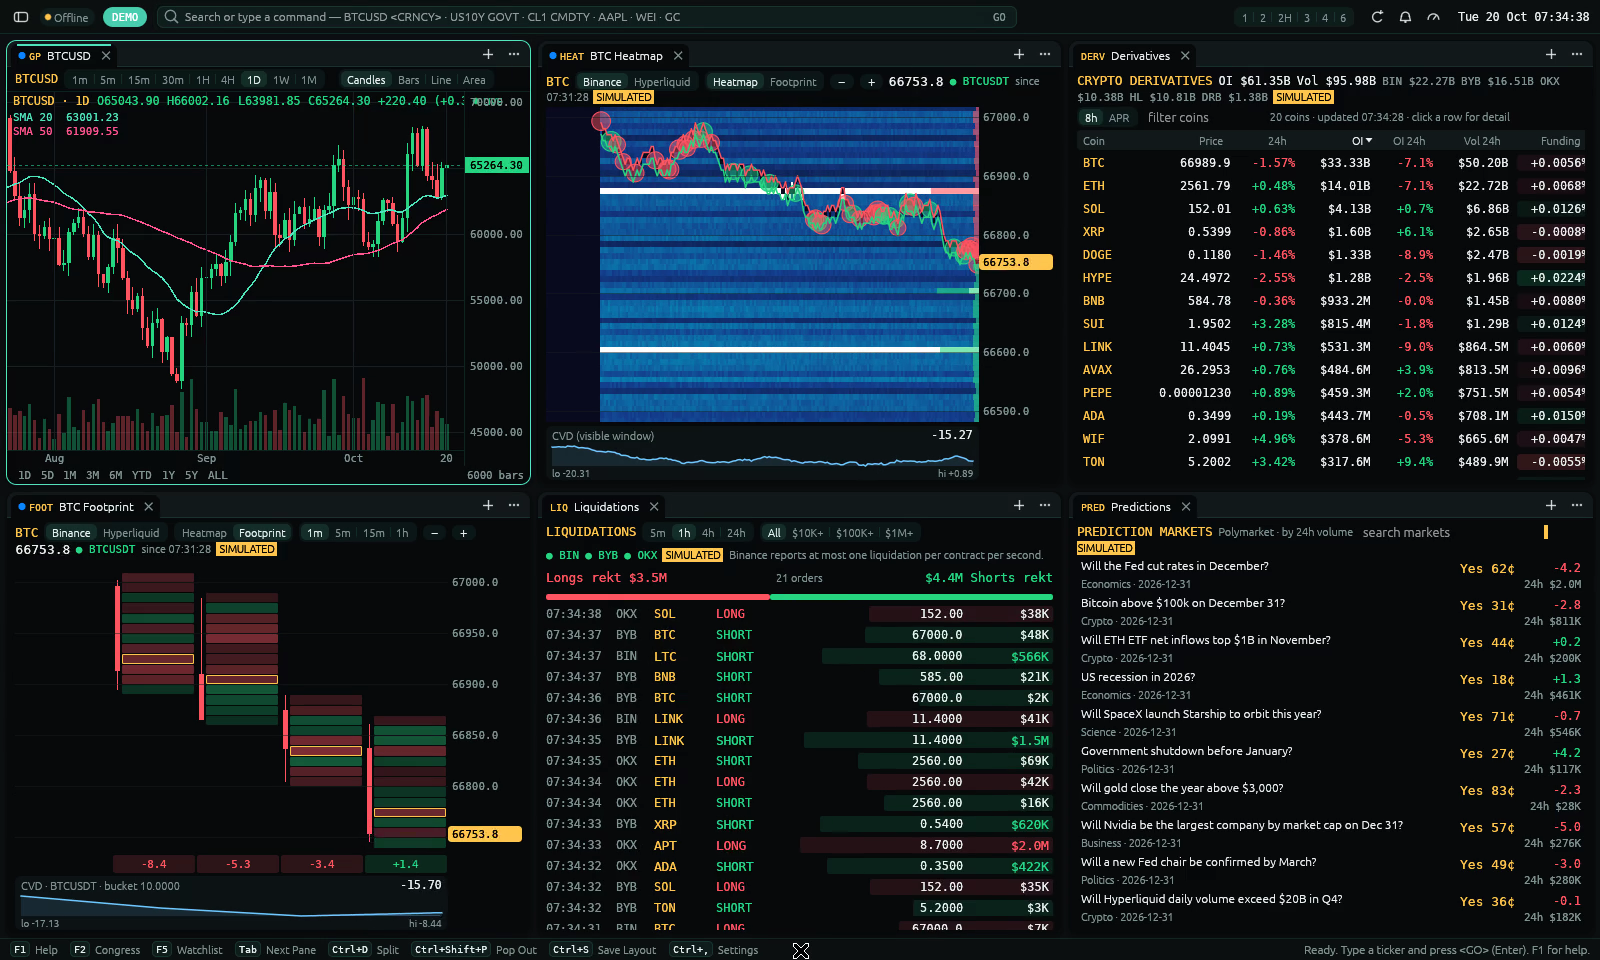
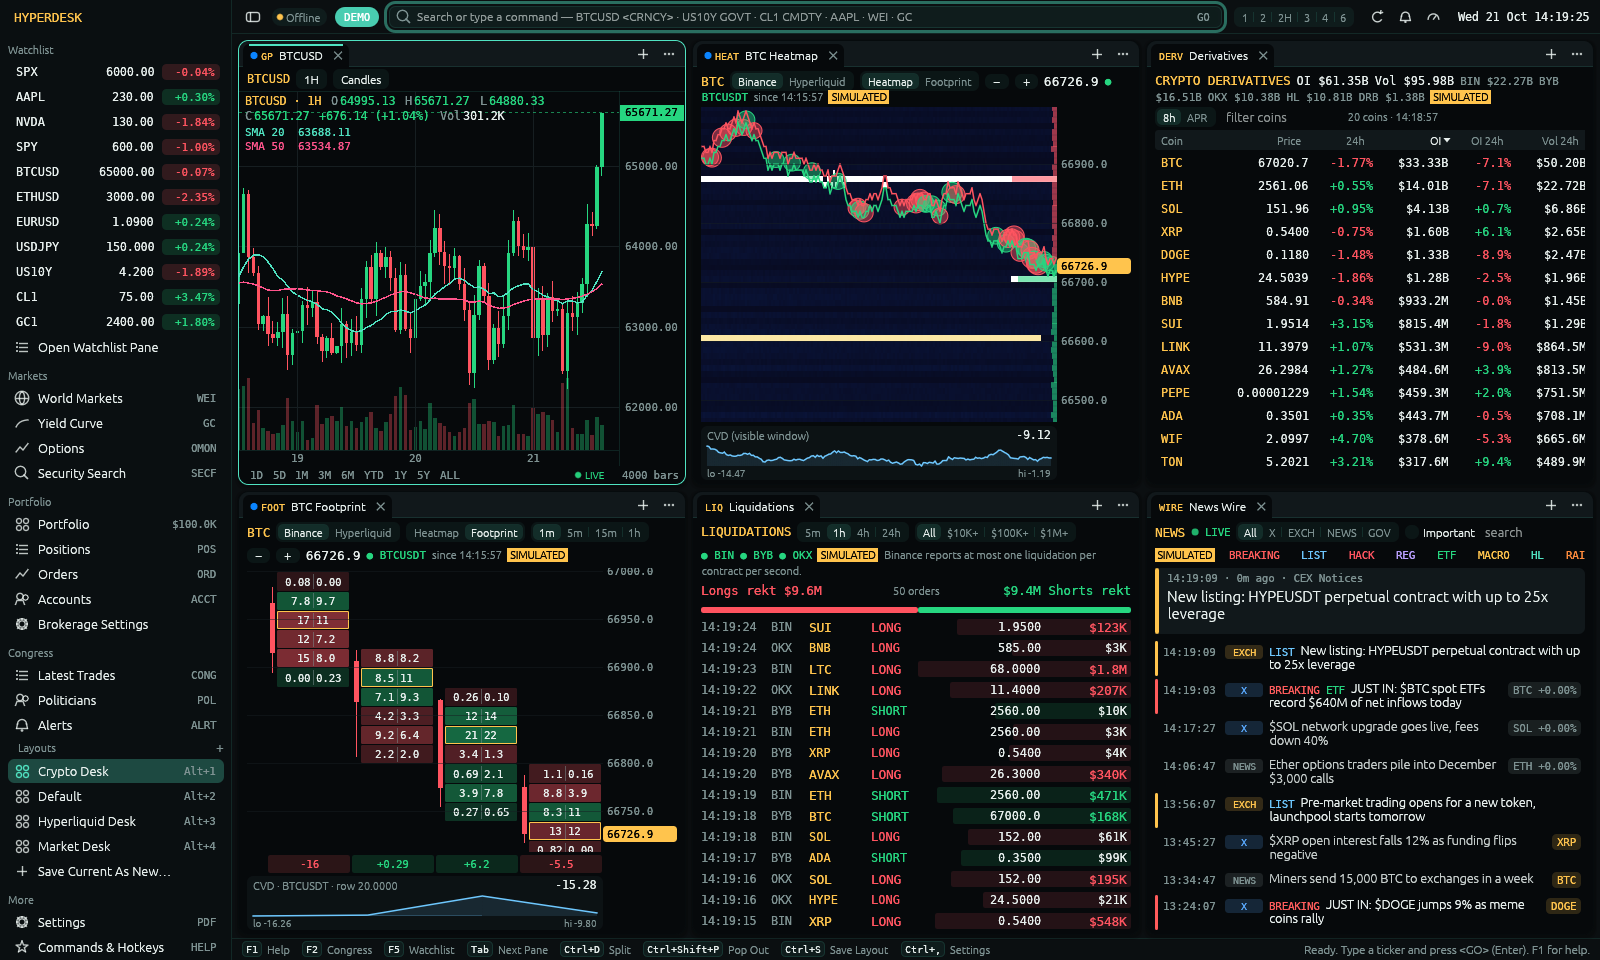
Chart drawing toolbar, 1H crypto chart, refreshed README media and docs
- TradingView-style drawing toolbar down the left of roomy chart panes:
  cursor, trendline, horizontal and vertical lines, Fib, magnet, clear.
- The legend stays clear of the Buy/Sell buttons; time-axis labels that
  would be cut at the left edge are skipped.
- The Crypto Desk chart opens on 1H candles.
- New demo GIF and screenshots (the old ones still showed the previous
  name), including a full-size chart with drawings.
- README and DATA_SOURCES describe the news terminal's sources, polling
  and how the move since a headline is measured.

Claude-Session: https://claude.ai/code/session_01L5tMP6ibRFgsuSRFgBkkGB

diff --git a/app/src/chart_view.rs b/app/src/chart_view.rs
@@ -23,6 +23,8 @@ use crate::widgets;
 use crate::worker::{BuiltIndicator, PaneId, Request, Worker, initial_limit};
 
 const AXIS_W: f32 = 66.0;
+/// Width of the drawing toolbar on the left of roomy chart panes.
+const TOOLS_W: f32 = 32.0;
 const TIME_H: f32 = 16.0;
 /// Fallback header row, used when the pane's tab strip has no room for the controls.
 const HEADER_H: f32 = 24.0;
@@ -636,6 +638,12 @@ impl ChartState {
         }
 
         let body = Rect::from_min_max(pos2(rect.left(), header.bottom()), pos2(rect.right(), range_row.top()));
+        // TradingView-style drawing toolbar down the left edge when the pane has room.
+        let tools_w = if rect.width() > 520.0 && body.height() > 220.0 { TOOLS_W } else { 0.0 };
+        if tools_w > 0.0 {
+            clicked |= self.draw_toolbar(ui, Rect::from_min_max(body.min, pos2(body.left() + tools_w, body.bottom())));
+        }
+        let body = Rect::from_min_max(pos2(body.left() + tools_w, body.top()), body.max);
         let plot_all = Rect::from_min_max(body.min, pos2(body.right() - AXIS_W, body.bottom() - TIME_H));
         if plot_all.width() < 40.0 || plot_all.height() < 40.0 {
             return clicked;
@@ -895,7 +903,10 @@ impl ChartState {
             for (j, label) in scale::time_ticks(&times, 0, times.len(), gap, self.tf) {
                 let x = price_rect.left() + v.x_center(idxs[j]) as f32;
                 ui.painter_at(plot_all).vline(x, plot_all.y_range(), Stroke::new(1.0, theme::grid()));
-                time_painter.text(pos2(x, time_rect.center().y), Align2::CENTER_CENTER, label, mono(10.5), muted());
+                // Skip labels that would be cut by the plot's left edge.
+                if x - label.len() as f32 * 3.4 >= time_rect.left() {
+                    time_painter.text(pos2(x, time_rect.center().y), Align2::CENTER_CENTER, label, mono(10.5), muted());
+                }
             }
         }
 
@@ -1092,6 +1103,129 @@ impl ChartState {
         }
     }
 
+    /// The drawing toolbar: cursor, trendline, horizontal/vertical line, Fibonacci, magnet and
+    /// clear-all, one click each (the same tools as the Draw menu and Alt shortcuts).
+    fn draw_toolbar(&mut self, ui: &Ui, strip: Rect) -> bool {
+        #[derive(Clone, Copy, PartialEq)]
+        enum Btn {
+            Cursor,
+            Draw(Tool),
+            Magnet,
+            Clear,
+        }
+        let alt = if cfg!(target_os = "macos") { "⌥" } else { "Alt+" };
+        let buttons = [
+            (Btn::Cursor, "Cursor (Esc)".to_string()),
+            (Btn::Draw(Tool::Trendline), format!("Trendline ({alt}T)")),
+            (Btn::Draw(Tool::Horizontal), format!("Horizontal line ({alt}H)")),
+            (Btn::Draw(Tool::Vertical), format!("Vertical line ({alt}V)")),
+            (Btn::Draw(Tool::Fib), format!("Fib retracement ({alt}F)")),
+            (Btn::Magnet, "Magnet: snap drawings to OHLC".to_string()),
+            (Btn::Clear, "Remove all drawings".to_string()),
+        ];
+        let p = ui.painter_at(strip);
+        p.vline(strip.right() - 0.5, strip.y_range(), Stroke::new(1.0, theme::border()));
+        let mut clicked = false;
+        let mut y = strip.top() + 6.0;
+        for (k, (b, tip)) in buttons.iter().enumerate() {
+            if k == 5 {
+                // Separator before the toggles.
+                p.hline((strip.left() + 8.0)..=(strip.right() - 8.0), y + 1.0, Stroke::new(1.0, theme::border()));
+                y += 6.0;
+            }
+            let r = Rect::from_min_size(pos2(strip.left() + 3.0, y), vec2(strip.width() - 7.0, 26.0));
+            y += 30.0;
+            if r.bottom() > strip.bottom() {
+                break;
+            }
+            let resp = ui.interact(r, ui.id().with((self.id, "draw-tool", k)), Sense::click()).on_hover_text(tip);
+            let active = match b {
+                Btn::Cursor => self.draw.tool.is_none(),
+                Btn::Draw(t) => self.draw.tool == Some(*t),
+                Btn::Magnet => self.magnet,
+                Btn::Clear => false,
+            };
+            if active || resp.hovered() {
+                p.rect_filled(r, 4.0, if active { amber().gamma_multiply(0.18) } else { theme::header() });
+            }
+            let c = if active {
+                amber()
+            } else if resp.hovered() {
+                text()
+            } else {
+                muted()
+            };
+            let st = Stroke::new(1.4, c);
+            let (cx, cy) = (r.center().x, r.center().y);
+            match b {
+                Btn::Cursor => {
+                    p.hline((cx - 8.0)..=(cx - 2.5), cy, st);
+                    p.hline((cx + 2.5)..=(cx + 8.0), cy, st);
+                    p.vline(cx, (cy - 8.0)..=(cy - 2.5), st);
+                    p.vline(cx, (cy + 2.5)..=(cy + 8.0), st);
+                }
+                Btn::Draw(Tool::Trendline) => {
+                    p.line_segment([pos2(cx - 7.0, cy + 6.0), pos2(cx + 7.0, cy - 6.0)], st);
+                    p.circle_stroke(pos2(cx - 7.0, cy + 6.0), 2.0, st);
+                    p.circle_stroke(pos2(cx + 7.0, cy - 6.0), 2.0, st);
+                }
+                Btn::Draw(Tool::Horizontal) => {
+                    p.hline((cx - 9.0)..=(cx + 9.0), cy, st);
+                    p.circle_filled(pos2(cx, cy), 2.5, c);
+                }
+                Btn::Draw(Tool::Vertical) => {
+                    p.vline(cx, (cy - 9.0)..=(cy + 9.0), st);
+                    p.circle_filled(pos2(cx, cy), 2.5, c);
+                }
+                Btn::Draw(Tool::Fib) => {
+                    for (dy, w) in [(-7.0, 9.0), (-2.0, 6.0), (2.5, 6.0), (7.0, 9.0)] {
+                        p.hline((cx - w)..=(cx + w), cy + dy, st);
+                    }
+                }
+                Btn::Magnet => {
+                    let pts: Vec<Pos2> = (0..=12)
+                        .map(|i| {
+                            let a = std::f32::consts::PI * i as f32 / 12.0;
+                            pos2(cx - 6.0 * a.cos(), cy + 1.0 + 6.0 * a.sin())
+                        })
+                        .collect();
+                    p.add(egui::Shape::line(pts, Stroke::new(2.4, c)));
+                    p.vline(cx - 6.0, (cy - 7.0)..=(cy + 1.0), Stroke::new(2.4, c));
+                    p.vline(cx + 6.0, (cy - 7.0)..=(cy + 1.0), Stroke::new(2.4, c));
+                }
+                Btn::Clear => {
+                    p.hline((cx - 7.0)..=(cx + 7.0), cy - 5.0, st);
+                    p.hline((cx - 2.5)..=(cx + 2.5), cy - 7.5, st);
+                    p.rect_stroke(
+                        Rect::from_min_max(pos2(cx - 5.0, cy - 4.0), pos2(cx + 5.0, cy + 8.0)),
+                        1.5,
+                        st,
+                        egui::StrokeKind::Inside,
+                    );
+                }
+            }
+            if resp.clicked() {
+                clicked = true;
+                match b {
+                    Btn::Cursor => self.draw = DrawState::default(),
+                    Btn::Draw(t) => {
+                        if self.draw.tool == Some(*t) {
+                            self.draw = DrawState::default();
+                        } else {
+                            self.start_tool(*t);
+                        }
+                    }
+                    Btn::Magnet => self.magnet = !self.magnet,
+                    Btn::Clear => {
+                        self.drawings.clear();
+                        self.draw = DrawState::default();
+                    }
+                }
+            }
+        }
+        clicked
+    }
+
     fn paint_legend(&self, ui: &Ui, price_rect: Rect, i: usize, sub_rects: &[(Rect, usize, PriceScale)]) {
         let Some(b) = self.bars.get(i) else { return };
         let p = ui.painter_at(price_rect);
@@ -1102,7 +1236,9 @@ impl ChartState {
         // TradingView-style legend: muted field names, values in the bar's colour, wrapping onto a
         // second line instead of running under the price axis in narrow panes.
         let left = price_rect.left() + 6.0;
-        let right = price_rect.right() - 6.0;
+        // Stay clear of the Buy / Sell buttons in the top-right corner of tradable charts.
+        let trade = matches!(self.sec.class, hd_core::AssetClass::Equity | hd_core::AssetClass::Etf);
+        let right = price_rect.right() - if trade { 120.0 } else { 6.0 };
         let mut x = left;
         let mut y = price_rect.top() + 4.0;
         let put = |parts: &[(String, Color32)], x: &mut f32, y: &mut f32| {

diff --git a/app/src/layouts.rs b/app/src/layouts.rs
@@ -337,8 +337,13 @@ impl LayoutDoc {
     pub fn crypto_workspace(defaults: &crate::prefs::PanelDefaults) -> LayoutDoc {
         let flow =
             |view| PaneSettings::Flow { coin: "BTC".into(), venue: hd_flow::Exchange::Binance, view, tf_secs: 60 };
+        // Crypto traders live on intraday candles; the hourly chart also shows the live candle move.
+        let mut chart = chart_settings("BTCUSD Curncy", defaults);
+        if let PaneSettings::Chart { tf, .. } = &mut chart {
+            *tf = hd_core::Timeframe::H1;
+        }
         let panes = vec![
-            chart_settings("BTCUSD Curncy", defaults),
+            chart,
             flow(crate::app::FlowView::Heatmap),
             PaneSettings::Deriv { coin: None, apr: false },
             flow(crate::app::FlowView::Footprint),

diff --git a/README.md b/README.md
@@ -12,7 +12,7 @@
 </p>
 
 <p align="center">
-  <img src="docs/img/demo.gif" alt="Hyperdesk demo: the Crypto Desk with a live order book heatmap, footprint and liquidations, then the Market Desk, the Hyperliquid Desk and a whale's wallet" width="100%">
+  <img src="docs/img/demo.gif" alt="Hyperdesk demo: the Crypto Desk with a live order book heatmap, footprint, liquidations and the news terminal, then the chart's drawing tools, the Market Desk and the Hyperliquid Desk" width="100%">
 </p>
 
 <p align="center"><sub>Offline demo data (<code>HD_PROVIDER=sample</code>). Everything you see runs live against public exchange APIs.</sub></p>
@@ -41,16 +41,17 @@ and link by colour, so one coin change drives the chart, heatmap and footprint t
 | | `HLPOS BTC` | **Top-wallet positioning**: long vs short among the 200 largest accounts, size cohorts (Shrimp → Kraken), a **liquidation map** from their real liquidation prices, largest positions |
 | | `PRINTS` | **Whale prints**: $25K+ Hyperliquid trades with the taker's and maker's wallets |
 | | `HLECO` | **Ecosystem**: perp OI and volume, HYPE, **HIP-3 builder DEXs** and their markets, spot tokens by market cap, the HLP vault, daily **fees and revenue** |
-| **News & social** | `WIRE` · `WIRE SOL` | **News wire** from CoinDesk, The Block, Cointelegraph, Decrypt, Blockworks, the Fed, the SEC and more: coin chips, story tags (HACK, REG, ETF, LIST, MACRO, HL, RAISE), important stories highlighted |
+| **News & social** | `WIRE` · `WIRE SOL` | **News terminal**: a real-time tape of tweets and exchange listing notices (Tree of Alpha's public feed, Binance, Bybit, OKX) plus CoinDesk, The Block, Cointelegraph, Decrypt, Blockworks, the Fed, the SEC and more. Breaking-news banner, X / EXCH / NEWS / GOV badges, story tags (BREAKING, LIST, HACK, REG, ETF, MACRO, HL, RAISE), coin chips showing **the move since the headline**, flashes and toasts for important stories |
 | | `CALLS` | **KOL calls** from X accounts you follow: coin, side and levels from each post, price at the call, move since, and a hit-rate **scorecard** |
 | | `PRED` | **Prediction markets** (Polymarket): odds, history per outcome, order book |
-| **Charts & TradFi** | `AAPL` · `BTCUSD CRNCY` · `US10Y GOVT` | GPU candles with 151 indicators, drawings and compare; stocks, ETFs, indices, FX, crypto, Treasuries, futures |
+| **Charts & TradFi** | `AAPL` · `BTCUSD CRNCY` · `US10Y GOVT` | GPU candles with 151 indicators, a TradingView-style drawing toolbar (trendline, horizontal/vertical line, Fib, magnet), OHLC legend and compare; stocks, ETFs, indices, FX, crypto, Treasuries, futures |
 | | `OMON` · `WEI` · `GC` · `CN` | Option chains with greeks, world markets, the Treasury curve, headlines |
 | | `CONG` · `POL PELOSI` | US Congress trades from the official STOCK Act filings, with chart markers and alerts |
 | **Trading** | `PORT` · `BUY AAPL 10` | A paper-trading demo account by default; real brokerage accounts through SnapTrade (read-only until you turn trading on) |
 
-Three ready-made layouts are created on first launch: **Crypto Desk**, **Hyperliquid Desk** and
-**Market Desk** (`LAYOUT Crypto Desk`, or <kbd>Alt</kbd>+<kbd>1</kbd>…<kbd>9</kbd>).
+Hyperdesk opens on the **Crypto Desk**; the **Hyperliquid Desk**, **Market Desk** and a classic
+equities **Default** desk are one click away in the sidebar (`LAYOUT Market Desk`, or
+<kbd>Alt</kbd>+<kbd>1</kbd>…<kbd>9</kbd>).
 
 <table>
   <tr>
@@ -58,16 +59,16 @@ Three ready-made layouts are created on first launch: **Crypto Desk**, **Hyperli
     <td><img src="docs/img/hyperliquid-desk.png" alt="Hyperliquid Desk"></td>
   </tr>
   <tr>
-    <td align="center"><b>Crypto Desk</b>: chart, heatmap, derivatives board, footprint, liquidations, predictions</td>
+    <td align="center"><b>Crypto Desk</b>: chart, heatmap, derivatives board, footprint, liquidations, news terminal</td>
     <td align="center"><b>Hyperliquid Desk</b>: leaderboard, wallet, whale prints, positioning, options flow</td>
   </tr>
   <tr>
     <td><img src="docs/img/market-desk.png" alt="Market Desk"></td>
-    <td><img src="docs/img/crypto-detail.png" alt="Coin detail and prediction market"></td>
+    <td><img src="docs/img/chart.png" alt="BTCUSD chart with drawing tools"></td>
   </tr>
   <tr>
-    <td align="center"><b>Market Desk</b>: returns heatmap, news wire, KOL calls, ecosystem, seasonality, alerts</td>
-    <td align="center"><b>DERIV BTC</b> and a Polymarket market</td>
+    <td align="center"><b>Market Desk</b>: returns heatmap, prediction markets, KOL calls, ecosystem, seasonality, alerts</td>
+    <td align="center"><b>Charts</b>: drawing toolbar, OHLC legend, trendline and Fib on BTCUSD 1H</td>
   </tr>
 </table>
 
@@ -97,7 +98,7 @@ Nothing below is required; every pane works without it.
 | To get | Do this |
 |---|---|
 | **KOL calls from X** | X has no free read API. Either set `X_BEARER_TOKEN` (a paid X API tier) before starting Hyperdesk, or give each account an RSS bridge URL (RSSHub, Nitter, rss.app) when you add it in the `CALLS` pane. Calls are kept in `kol_calls.json` so their scorecard survives restarts. |
-| **Your own news feeds** | Put `[{"name": "My feed", "url": "https://…/rss"}]` in `news_feeds.json` in the data folder (RSS or Atom). It replaces the default list. |
+| **Your own news feeds** | Put `[{"name": "My feed", "url": "https://…/rss"}]` in `news_feeds.json` in the data folder (RSS or Atom; `"format"` can also be `tree_of_alpha`, `binance`, `bybit` or `okx`, and `"kind"` `Social`, `Exchange`, `News` or `Official`). It replaces the default list. |
 | **Wallet labels** | Click **✎ Label** in any `HLW` wallet. Labels are saved in `wallet_labels.json`; vault names and leaderboard names are added automatically. |
 | **Stocks from Alpaca** | `APCA_API_KEY_ID` and `APCA_API_SECRET_KEY` (free tier). |
 | **Brokerage accounts** | **Settings › Brokerage**: SnapTrade client ID and consumer key, **Register User**, **Connect Brokerage…**. Secrets go to the Windows Credential Manager or macOS Keychain. Live order entry stays off until you enable it in **Settings › Trading**, and every order is previewed and confirmed. |

diff --git a/docs/DATA_SOURCES.md b/docs/DATA_SOURCES.md
@@ -128,13 +128,24 @@ chains (`OMON`) show volume and open interest per contract instead.
 | HLP vault | the vault list above | |
 | Daily fees and revenue | `GET api.llama.fi/summary/fees/hyperliquid?dataType=dailyFees` / `dailyRevenue` | DefiLlama's free API |
 
-## News wire (`WIRE`) — Gambit-style
+## News terminal (`WIRE`) — Gambit-style
 
-RSS and Atom feeds, polled every 90 s while a wire pane is open, merged and de-duplicated:
-CoinDesk, Cointelegraph, The Block, Decrypt, Blockworks, Bitcoin Magazine, CryptoSlate,
-Hyperliquid's Medium, the Federal Reserve press releases and SEC press releases. Coins are tagged
-from `$CASHTAGS`, tickers known to the derivatives board and common coin names; story tags come
-from keyword lists. Replace the list with your own in `news_feeds.json` in the data folder.
+| Source | Endpoint | Polled | Notes |
+|---|---|---|---|
+| Tweets and announcements | `GET news.treeofalpha.com/api/news?limit=100` | every 15 s | Tree of Alpha's public news feed: posts from market-moving X accounts and exchange announcements, with the coins it detected. Community-run and unofficial, so it may change or add limits |
+| Binance announcements | `GET www.binance.com/bapi/composite/v1/public/cms/article/list/query?type=1` | every 60 s | The list Binance's website uses (not a documented API) |
+| Bybit announcements | `GET api.bybit.com/v5/announcements/index?locale=en-US` | every 60 s | Bybit's documented public API |
+| OKX announcements | `GET www.okx.com/api/v5/support/announcements` | every 60 s | OKX's documented public API |
+| Outlets and regulators | RSS/Atom: CoinDesk, Cointelegraph, The Block, Decrypt, Blockworks, Bitcoin Magazine, CryptoSlate, Hyperliquid's Medium, Federal Reserve, SEC | every 90 s | |
+
+Headlines are merged and de-duplicated. Coins come from the source's own coin detection, from
+`$CASHTAGS`, tickers known to the derivatives board and common coin names; story tags (BREAKING,
+LIST, HACK, REG, ETF, MACRO, HL, RAISE) come from keyword lists and the exchanges' announcement
+categories. The **move since the headline** compares the board price when Hyperdesk first saw a
+headline (only for headlines under 15 minutes old) with the current board price, which refreshes
+about every 30 s; it is not tick-accurate. Replace the source list with your own in
+`news_feeds.json` in the data folder. Check every source from your network with
+`cargo test -p hd-flow --test live news -- --ignored --nocapture`.
 
 ## KOL calls (`CALLS`)
 

diff --git a/docs/RESEARCH.md b/docs/RESEARCH.md
@@ -82,7 +82,7 @@ design and layout as proprietary, so only that one-line feature list was used.
 | Gambit feature | Here | Status |
 |---|---|---|
 | Live charts, equities and crypto | Charts, `WEI`, `OMON` | Done |
-| News | `WIRE` news wire; `CALLS` KOL calls from X | Done (X needs your token or RSS bridges) |
+| News | `WIRE` real-time news terminal (tweets and exchange listings via Tree of Alpha, Binance, Bybit, OKX, plus outlets) with breaking banner and move-since-headline; `CALLS` KOL calls from X | Done (X calls need your token or RSS bridges) |
 | Options flow | `OFLOW`: Deribit BTC/ETH trades, blocks, premiums, put/call | Done for crypto; no free US equity flow source |
 | On-chain data | Hyperliquid wallets, positioning and prints | Done (Hyperliquid) |
 | Non-custodial Hyperliquid order ticket | — | Not done (below) |
